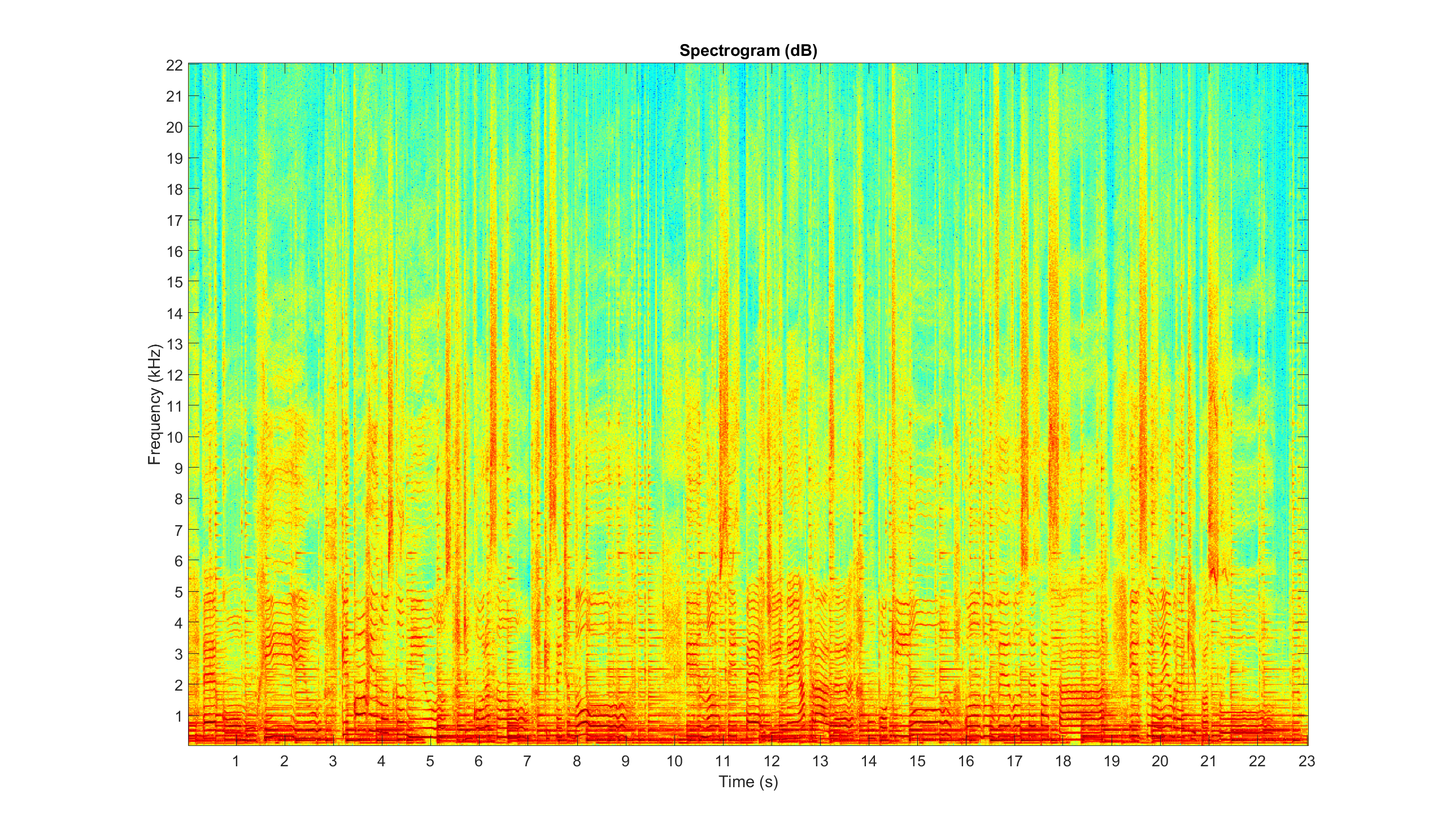
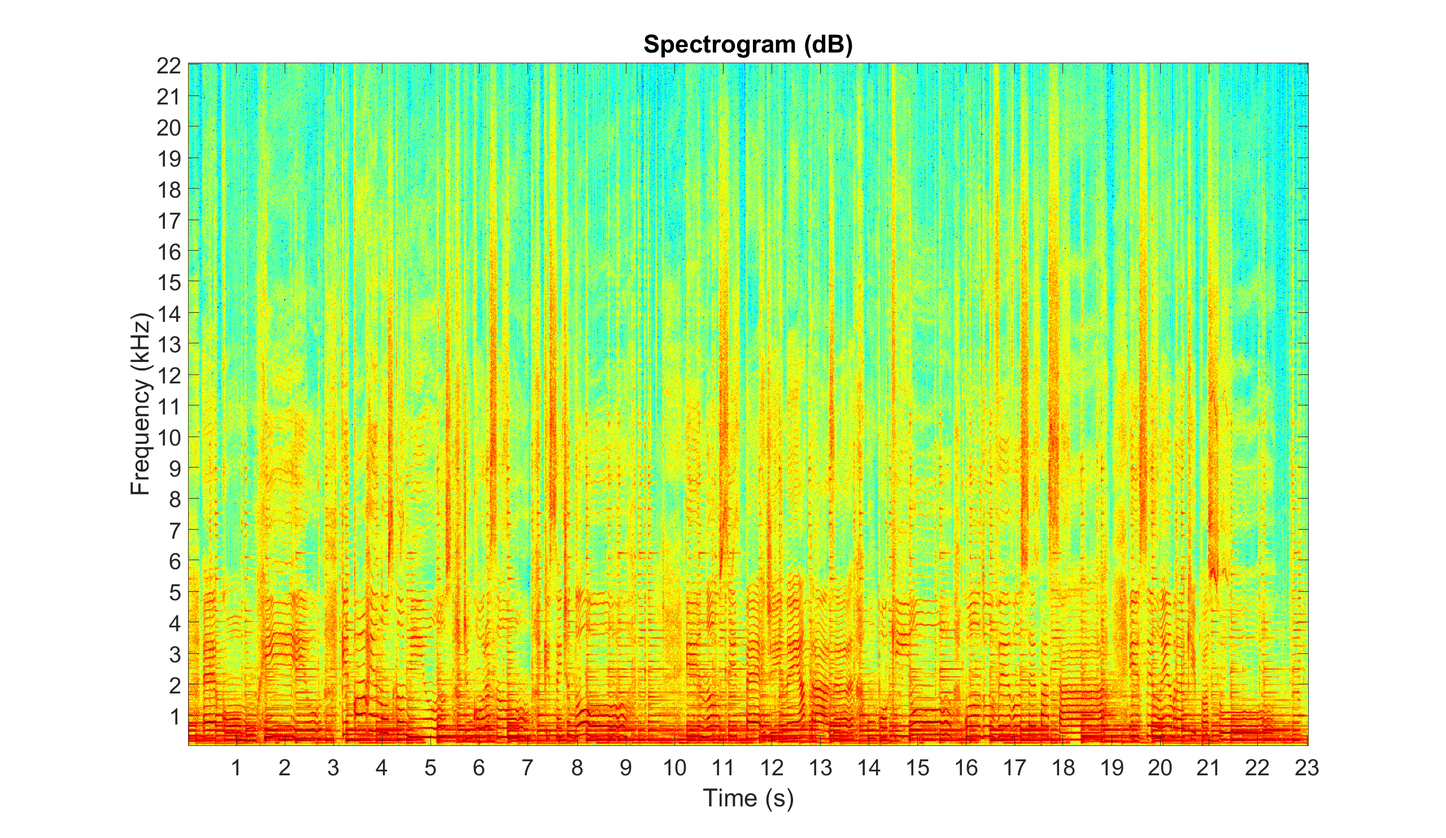
Update font size.

diff --git a/z.m b/z.m
@@ -66,7 +66,7 @@
             %       yticks(round((1e3:1e3:sample_rate/2)/sample_rate*window_length))
             %       yticklabels(1:sample_rate/2*1e-3)
             %       ylabel('Frequency (kHz)')
-            %       set(gca,'FontSize',20)
+            %       set(gca,'FontSize',30)
             %
             %   See also fft, z.istft, spectrogram
             
